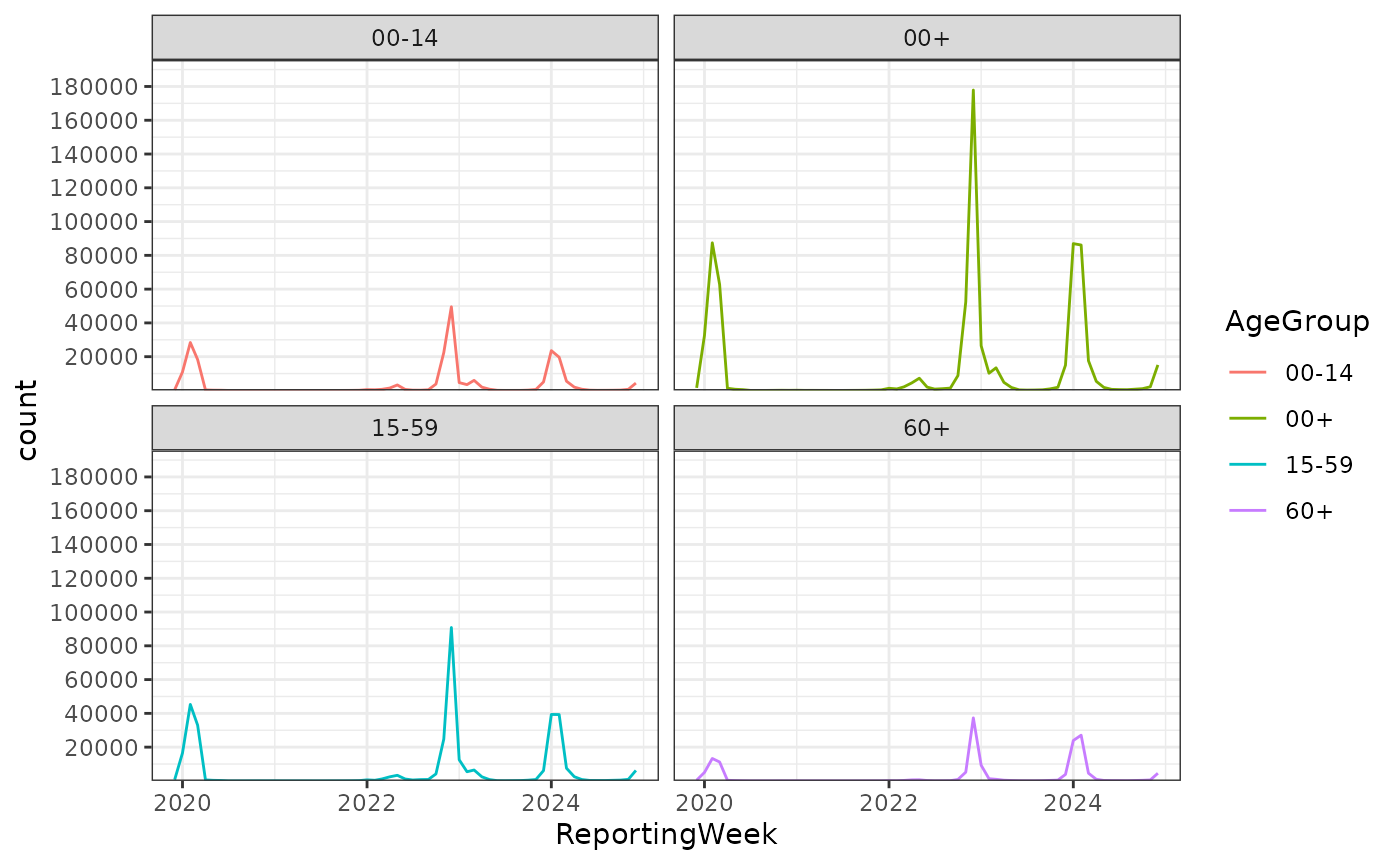
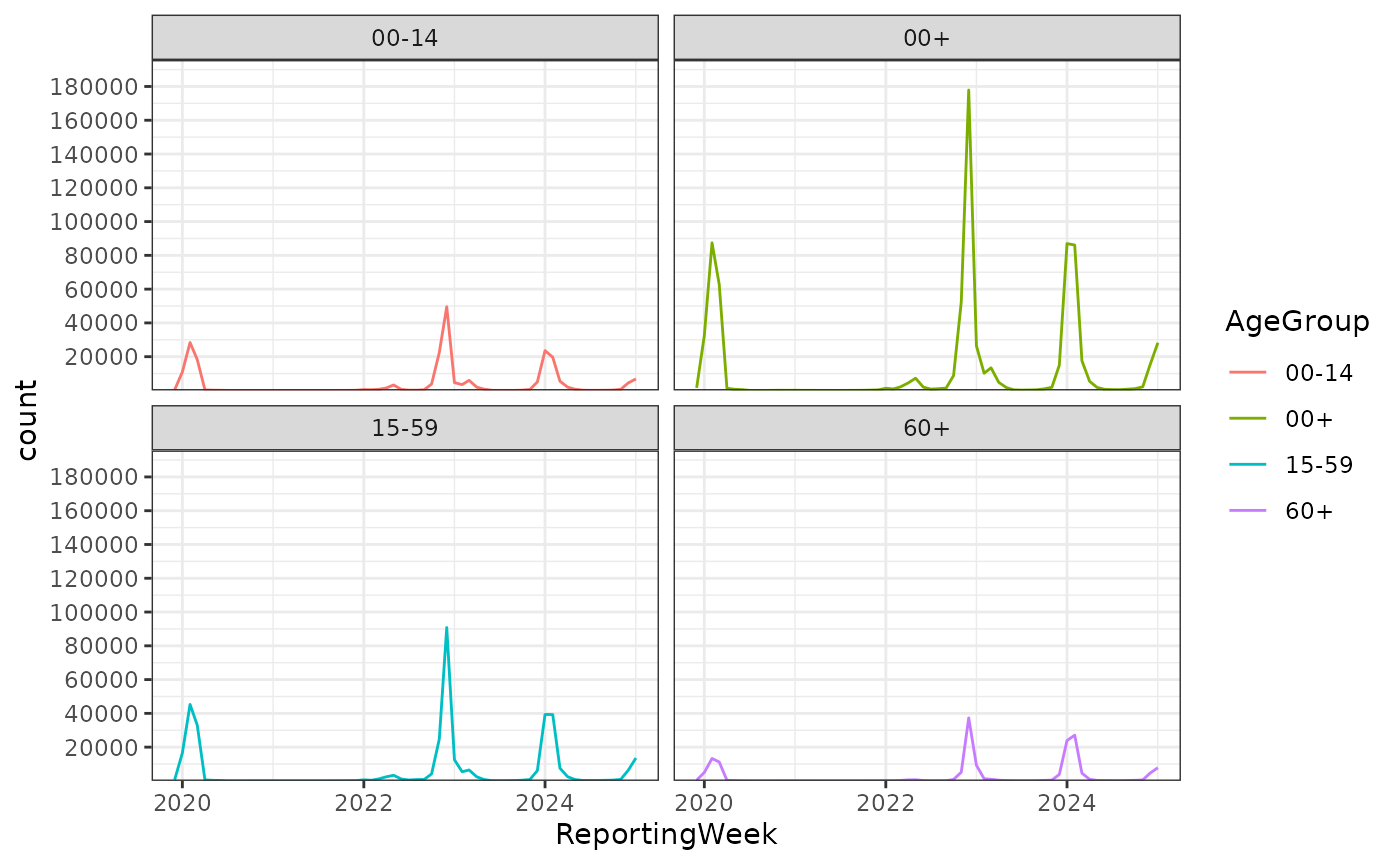
Deploying to gh-pages from @ biostats-dev/ggsurveillance@59870f68ac120569420b44e679a9e4e4ecffb558 🚀

diff --git a/articles/align_dates_seasonal.html b/articles/align_dates_seasonal.html
@@ -89,9 +89,23 @@
 <span><span class="co">#&gt;   method               from </span></span>
 <span><span class="co">#&gt;   as_tibble.grouped_df dplyr</span></span></code></pre></div>
 <div class="section level2">
+<h2 id="the-seasonal-plot">The seasonal plot<a class="anchor" aria-label="anchor" href="#the-seasonal-plot"></a>
+</h2>
+<pre><code><span><span class="co">#&gt; Warning: A numeric `legend.position` argument in `theme()` was deprecated in ggplot2</span></span>
+<span><span class="co">#&gt; 3.5.0.</span></span>
+<span><span class="co">#&gt; <span style="color: #00BBBB;">ℹ</span> Please use the `legend.position.inside` argument of `theme()` instead.</span></span>
+<span><span class="co">#&gt; <span style="color: #555555;">This warning is displayed once every 8 hours.</span></span></span>
+<span><span class="co">#&gt; <span style="color: #555555;">Call `lifecycle::last_lifecycle_warnings()` to see where this warning was</span></span></span>
+<span><span class="co">#&gt; <span style="color: #555555;">generated.</span></span></span>
+<span><span class="co">#&gt; Warning: Computation failed in `stat_summary()`.</span></span>
+<span><span class="co">#&gt; Caused by error in `fun.data()`:</span></span>
+<span><span class="co">#&gt; <span style="color: #BBBB00;">!</span> The package "Hmisc" is required.</span></span></code></pre>
+<p><img src="align_dates_seasonal_files/figure-html/unnamed-chunk-2-1.png" width="700"></p>
+</div>
+<div class="section level2">
 <h2 id="seasonal-alignment-and-plot">Seasonal alignment and plot<a class="anchor" aria-label="anchor" href="#seasonal-alignment-and-plot"></a>
 </h2>
-<div class="sourceCode" id="cb2"><pre class="downlit sourceCode r">
+<div class="sourceCode" id="cb3"><pre class="downlit sourceCode r">
 <code class="sourceCode R"><span><span class="kw"><a href="https://rdrr.io/r/base/library.html" class="external-link">library</a></span><span class="op">(</span><span class="va"><a href="https://ggplot2.tidyverse.org" class="external-link">ggplot2</a></span><span class="op">)</span></span>
 <span></span>
 <span><span class="va">influenza_germany</span> <span class="op">|&gt;</span></span>
@@ -103,8 +117,8 @@
 <span>  <span class="fu"><a href="https://ggplot2.tidyverse.org/reference/geom_path.html" class="external-link">geom_line</a></span><span class="op">(</span><span class="op">)</span> <span class="op">+</span></span>
 <span>  <span class="fu"><a href="https://ggplot2.tidyverse.org/reference/facet_wrap.html" class="external-link">facet_wrap</a></span><span class="op">(</span><span class="op">~</span><span class="va">AgeGroup</span><span class="op">)</span> <span class="op">+</span></span>
 <span>  <span class="fu"><a href="https://ggplot2.tidyverse.org/reference/ggtheme.html" class="external-link">theme_bw</a></span><span class="op">(</span><span class="op">)</span></span></code></pre></div>
-<p><img src="align_dates_seasonal_files/figure-html/unnamed-chunk-2-1.png" width="700"></p>
-<div class="sourceCode" id="cb3"><pre class="downlit sourceCode r">
+<p><img src="align_dates_seasonal_files/figure-html/unnamed-chunk-3-1.png" width="700"></p>
+<div class="sourceCode" id="cb4"><pre class="downlit sourceCode r">
 <code class="sourceCode R"><span><span class="va">influenza_germany</span> <span class="op">|&gt;</span></span>
 <span>  <span class="fu"><a href="../reference/align_dates_seasonal.html">align_dates_seasonal</a></span><span class="op">(</span>dates_from <span class="op">=</span> <span class="va">ReportingWeek</span><span class="op">)</span> <span class="op">|&gt;</span></span>
 <span>  <span class="fu"><a href="https://dplyr.tidyverse.org/reference/group_by.html" class="external-link">group_by</a></span><span class="op">(</span><span class="va">AgeGroup</span>, <span class="va">season</span><span class="op">)</span> <span class="op">|&gt;</span></span>
@@ -117,13 +131,41 @@
 <span><span class="co">#&gt; <span style="color: #BCBCBC;">2</span> 2020/21    683     132     267   283</span></span>
 <span><span class="co">#&gt; <span style="color: #BCBCBC;">3</span> 2021/22  <span style="text-decoration: underline;">18</span>980    <span style="text-decoration: underline;">7</span>176    <span style="text-decoration: underline;">9</span>580  <span style="text-decoration: underline;">2</span>206</span></span>
 <span><span class="co">#&gt; <span style="color: #BCBCBC;">4</span> 2022/23 <span style="text-decoration: underline;">299</span>167   <span style="text-decoration: underline;">93</span>343  <span style="text-decoration: underline;">149</span>590 <span style="text-decoration: underline;">55</span>944</span></span>
-<span><span class="co">#&gt; <span style="color: #BCBCBC;">5</span> 2023/24 <span style="text-decoration: underline;">217</span>233   <span style="text-decoration: underline;">57</span>542   <span style="text-decoration: underline;">97</span>618 <span style="text-decoration: underline;">61</span>878</span></span>
-<span><span class="co">#&gt; <span style="color: #BCBCBC;">6</span> 2024/25  <span style="text-decoration: underline;">19</span>931    <span style="text-decoration: underline;">5</span>540    <span style="text-decoration: underline;">8</span>421  <span style="text-decoration: underline;">5</span>957</span></span></code></pre></div>
+<span><span class="co">#&gt; <span style="color: #BCBCBC;">5</span> 2023/24 <span style="text-decoration: underline;">217</span>235   <span style="text-decoration: underline;">57</span>544   <span style="text-decoration: underline;">97</span>617 <span style="text-decoration: underline;">61</span>879</span></span>
+<span><span class="co">#&gt; <span style="color: #BCBCBC;">6</span> 2024/25  <span style="text-decoration: underline;">48</span>427   <span style="text-decoration: underline;">12</span>438   <span style="text-decoration: underline;">22</span>063 <span style="text-decoration: underline;">13</span>882</span></span></code></pre></div>
+</div>
+<div class="section level2">
+<h2 id="combining-everything-for-the-seasonal-plot">Combining everything for the seasonal plot<a class="anchor" aria-label="anchor" href="#combining-everything-for-the-seasonal-plot"></a>
+</h2>
+<div class="sourceCode" id="cb5"><pre class="downlit sourceCode r">
+<code class="sourceCode R"><span><span class="va">influenza_germany</span> <span class="op">|&gt;</span></span>
+<span>  <span class="fu"><a href="https://dplyr.tidyverse.org/reference/filter.html" class="external-link">filter</a></span><span class="op">(</span><span class="va">AgeGroup</span> <span class="op">==</span> <span class="st">"00+"</span><span class="op">)</span> <span class="op">|&gt;</span></span>
+<span>  <span class="fu"><a href="../reference/align_dates_seasonal.html">align_dates_seasonal</a></span><span class="op">(</span>dates_from <span class="op">=</span> <span class="va">ReportingWeek</span>,</span>
+<span>                       date_resolution <span class="op">=</span> <span class="st">"isoweek"</span>,</span>
+<span>                       start <span class="op">=</span> <span class="fl">28</span><span class="op">)</span> <span class="op">-&gt;</span> <span class="va">df_flu_aligned</span></span>
+<span></span>
+<span><span class="fu"><a href="https://ggplot2.tidyverse.org/reference/ggplot.html" class="external-link">ggplot</a></span><span class="op">(</span><span class="va">df_flu_aligned</span>, <span class="fu"><a href="https://ggplot2.tidyverse.org/reference/aes.html" class="external-link">aes</a></span><span class="op">(</span>x <span class="op">=</span> <span class="va">date_aligned</span>, y <span class="op">=</span> <span class="va">Incidence</span><span class="op">)</span><span class="op">)</span> <span class="op">+</span></span>
+<span>  <span class="fu"><a href="https://ggplot2.tidyverse.org/reference/stat_summary.html" class="external-link">stat_summary</a></span><span class="op">(</span></span>
+<span>    <span class="fu"><a href="https://ggplot2.tidyverse.org/reference/aes.html" class="external-link">aes</a></span><span class="op">(</span>linetype <span class="op">=</span> <span class="st">"Historical Median (Min-Max)"</span><span class="op">)</span>, data <span class="op">=</span> <span class="va">.</span> <span class="op"><a href="https://magrittr.tidyverse.org/reference/pipe.html" class="external-link">%&gt;%</a></span> <span class="fu"><a href="https://dplyr.tidyverse.org/reference/filter.html" class="external-link">filter</a></span><span class="op">(</span><span class="op">!</span><span class="va">current_season</span><span class="op">)</span>, </span>
+<span>    fun.data <span class="op">=</span> <span class="va">median_hilow</span>, geom <span class="op">=</span> <span class="st">"ribbon"</span>, alpha <span class="op">=</span> <span class="fl">0.3</span><span class="op">)</span> <span class="op">+</span></span>
+<span>  <span class="fu"><a href="https://ggplot2.tidyverse.org/reference/stat_summary.html" class="external-link">stat_summary</a></span><span class="op">(</span></span>
+<span>    <span class="fu"><a href="https://ggplot2.tidyverse.org/reference/aes.html" class="external-link">aes</a></span><span class="op">(</span>linetype <span class="op">=</span> <span class="st">"Historical Median (Min-Max)"</span><span class="op">)</span>, data <span class="op">=</span> <span class="va">.</span> <span class="op"><a href="https://magrittr.tidyverse.org/reference/pipe.html" class="external-link">%&gt;%</a></span> <span class="fu"><a href="https://dplyr.tidyverse.org/reference/filter.html" class="external-link">filter</a></span><span class="op">(</span><span class="op">!</span><span class="va">current_season</span><span class="op">)</span>, </span>
+<span>    fun <span class="op">=</span> <span class="va">median</span>, geom <span class="op">=</span> <span class="st">"line"</span><span class="op">)</span> <span class="op">+</span></span>
+<span>  <span class="fu"><a href="https://ggplot2.tidyverse.org/reference/geom_path.html" class="external-link">geom_line</a></span><span class="op">(</span></span>
+<span>    <span class="fu"><a href="https://ggplot2.tidyverse.org/reference/aes.html" class="external-link">aes</a></span><span class="op">(</span>linetype <span class="op">=</span> <span class="st">"2024/25"</span><span class="op">)</span>, data <span class="op">=</span> <span class="va">.</span> <span class="op"><a href="https://magrittr.tidyverse.org/reference/pipe.html" class="external-link">%&gt;%</a></span> <span class="fu"><a href="https://dplyr.tidyverse.org/reference/filter.html" class="external-link">filter</a></span><span class="op">(</span><span class="va">current_season</span><span class="op">)</span>, colour <span class="op">=</span> <span class="st">"dodgerblue4"</span>, linewidth <span class="op">=</span> <span class="fl">2</span><span class="op">)</span> <span class="op">+</span></span>
+<span>  <span class="fu"><a href="https://ggplot2.tidyverse.org/reference/labs.html" class="external-link">labs</a></span><span class="op">(</span>linetype <span class="op">=</span> <span class="st">""</span><span class="op">)</span> <span class="op">+</span></span>
+<span>  <span class="fu"><a href="https://ggplot2.tidyverse.org/reference/scale_date.html" class="external-link">scale_x_date</a></span><span class="op">(</span>date_labels <span class="op">=</span> <span class="st">"%b'%y"</span><span class="op">)</span> <span class="op">+</span></span>
+<span>  <span class="fu"><a href="https://ggplot2.tidyverse.org/reference/ggtheme.html" class="external-link">theme_bw</a></span><span class="op">(</span><span class="op">)</span> <span class="op">+</span></span>
+<span>  <span class="fu"><a href="https://ggplot2.tidyverse.org/reference/theme.html" class="external-link">theme</a></span><span class="op">(</span>legend.position <span class="op">=</span> <span class="fu"><a href="https://rdrr.io/r/base/c.html" class="external-link">c</a></span><span class="op">(</span><span class="fl">0.2</span>,<span class="fl">0.8</span><span class="op">)</span><span class="op">)</span></span>
+<span><span class="co">#&gt; Warning: Computation failed in `stat_summary()`.</span></span>
+<span><span class="co">#&gt; Caused by error in `fun.data()`:</span></span>
+<span><span class="co">#&gt; <span style="color: #BBBB00;">!</span> The package "Hmisc" is required.</span></span></code></pre></div>
+<p><img src="align_dates_seasonal_files/figure-html/unnamed-chunk-5-1.png" width="700"></p>
 </div>
 <div class="section level2">
 <h2 id="other-visualisations">Other visualisations<a class="anchor" aria-label="anchor" href="#other-visualisations"></a>
 </h2>
-<div class="sourceCode" id="cb4"><pre class="downlit sourceCode r">
+<div class="sourceCode" id="cb6"><pre class="downlit sourceCode r">
 <code class="sourceCode R"><span><span class="va">influenza_germany</span> <span class="op">|&gt;</span></span>
 <span>  <span class="fu"><a href="https://dplyr.tidyverse.org/reference/filter.html" class="external-link">filter</a></span><span class="op">(</span><span class="va">AgeGroup</span> <span class="op">!=</span> <span class="st">"00+"</span><span class="op">)</span> <span class="op">|&gt;</span></span>
 <span>  <span class="fu"><a href="../reference/align_dates_seasonal.html">align_dates_seasonal</a></span><span class="op">(</span>dates_from <span class="op">=</span> <span class="va">ReportingWeek</span><span class="op">)</span> <span class="op">|&gt;</span></span>
@@ -135,7 +177,7 @@
 <span>  <span class="fu"><a href="https://ggplot2.tidyverse.org/reference/ggtheme.html" class="external-link">theme_bw</a></span><span class="op">(</span><span class="op">)</span></span>
 <span><span class="co">#&gt; Warning in geom_epicurve(color = NA, stat = "count"): Ignoring unknown</span></span>
 <span><span class="co">#&gt; parameters: `week_start`</span></span></code></pre></div>
-<p><img src="align_dates_seasonal_files/figure-html/unnamed-chunk-4-1.png" width="700"></p>
+<p><img src="align_dates_seasonal_files/figure-html/unnamed-chunk-6-1.png" width="700"></p>
 </div>
   </main><aside class="col-md-3"><nav id="toc" aria-label="Table of contents"><h2>On this page</h2>
     </nav></aside>

diff --git a/index.html b/index.html
@@ -113,20 +113,24 @@
 <span><span class="kw"><a href="https://rdrr.io/r/base/library.html" class="external-link">library</a></span><span class="op">(</span><span class="va"><a href="https://ggsurveillance.biostats.dev">ggsurveillance</a></span><span class="op">)</span></span>
 <span></span>
 <span><span class="va">influenza_germany</span> <span class="op">|&gt;</span></span>
+<span>  <span class="fu"><a href="https://rdrr.io/r/stats/filter.html" class="external-link">filter</a></span><span class="op">(</span><span class="va">AgeGroup</span> <span class="op">==</span> <span class="st">"00+"</span><span class="op">)</span> <span class="op">|&gt;</span></span>
 <span>  <span class="fu"><a href="reference/align_dates_seasonal.html">align_dates_seasonal</a></span><span class="op">(</span>dates_from <span class="op">=</span> <span class="va">ReportingWeek</span>,</span>
 <span>                       date_resolution <span class="op">=</span> <span class="st">"isoweek"</span>,</span>
 <span>                       start <span class="op">=</span> <span class="fl">28</span><span class="op">)</span> <span class="op">-&gt;</span> <span class="va">df_flu_aligned</span></span>
 <span></span>
 <span><span class="fu"><a href="https://ggplot2.tidyverse.org/reference/ggplot.html" class="external-link">ggplot</a></span><span class="op">(</span><span class="va">df_flu_aligned</span>, <span class="fu"><a href="https://ggplot2.tidyverse.org/reference/aes.html" class="external-link">aes</a></span><span class="op">(</span>x <span class="op">=</span> <span class="va">date_aligned</span>, y <span class="op">=</span> <span class="va">Incidence</span><span class="op">)</span><span class="op">)</span> <span class="op">+</span></span>
-<span>  <span class="fu"><a href="https://ggplot2.tidyverse.org/reference/stat_summary.html" class="external-link">stat_summary</a></span><span class="op">(</span>data <span class="op">=</span> <span class="va">.</span> <span class="op"><a href="https://magrittr.tidyverse.org/reference/pipe.html" class="external-link">%&gt;%</a></span> <span class="fu"><a href="https://rdrr.io/r/stats/filter.html" class="external-link">filter</a></span><span class="op">(</span><span class="op">!</span><span class="va">current_season</span><span class="op">)</span>, fun.data <span class="op">=</span> <span class="va">median_hilow</span>,</span>
-<span>               geom <span class="op">=</span> <span class="st">"ribbon"</span>, alpha <span class="op">=</span> <span class="fl">0.3</span><span class="op">)</span> <span class="op">+</span></span>
-<span>  <span class="fu"><a href="https://ggplot2.tidyverse.org/reference/stat_summary.html" class="external-link">stat_summary</a></span><span class="op">(</span>data <span class="op">=</span> <span class="va">.</span> <span class="op"><a href="https://magrittr.tidyverse.org/reference/pipe.html" class="external-link">%&gt;%</a></span> <span class="fu"><a href="https://rdrr.io/r/stats/filter.html" class="external-link">filter</a></span><span class="op">(</span><span class="op">!</span><span class="va">current_season</span><span class="op">)</span>, fun <span class="op">=</span> <span class="va">median</span>,</span>
-<span>               geom <span class="op">=</span> <span class="st">"line"</span><span class="op">)</span> <span class="op">+</span></span>
-<span>  <span class="fu"><a href="https://ggplot2.tidyverse.org/reference/geom_path.html" class="external-link">geom_line</a></span><span class="op">(</span>data <span class="op">=</span> <span class="va">.</span> <span class="op"><a href="https://magrittr.tidyverse.org/reference/pipe.html" class="external-link">%&gt;%</a></span> <span class="fu"><a href="https://rdrr.io/r/stats/filter.html" class="external-link">filter</a></span><span class="op">(</span><span class="va">current_season</span><span class="op">)</span>, color <span class="op">=</span> <span class="st">"dodgerblue4"</span>, </span>
-<span>            linewidth <span class="op">=</span> <span class="fl">2</span><span class="op">)</span> <span class="op">+</span></span>
+<span>  <span class="fu"><a href="https://ggplot2.tidyverse.org/reference/stat_summary.html" class="external-link">stat_summary</a></span><span class="op">(</span></span>
+<span>    <span class="fu"><a href="https://ggplot2.tidyverse.org/reference/aes.html" class="external-link">aes</a></span><span class="op">(</span>linetype <span class="op">=</span> <span class="st">"Historical Median (Min-Max)"</span><span class="op">)</span>, data <span class="op">=</span> <span class="va">.</span> <span class="op"><a href="https://magrittr.tidyverse.org/reference/pipe.html" class="external-link">%&gt;%</a></span> <span class="fu"><a href="https://rdrr.io/r/stats/filter.html" class="external-link">filter</a></span><span class="op">(</span><span class="op">!</span><span class="va">current_season</span><span class="op">)</span>, </span>
+<span>    fun.data <span class="op">=</span> <span class="va">median_hilow</span>, geom <span class="op">=</span> <span class="st">"ribbon"</span>, alpha <span class="op">=</span> <span class="fl">0.3</span><span class="op">)</span> <span class="op">+</span></span>
+<span>  <span class="fu"><a href="https://ggplot2.tidyverse.org/reference/stat_summary.html" class="external-link">stat_summary</a></span><span class="op">(</span></span>
+<span>    <span class="fu"><a href="https://ggplot2.tidyverse.org/reference/aes.html" class="external-link">aes</a></span><span class="op">(</span>linetype <span class="op">=</span> <span class="st">"Historical Median (Min-Max)"</span><span class="op">)</span>, data <span class="op">=</span> <span class="va">.</span> <span class="op"><a href="https://magrittr.tidyverse.org/reference/pipe.html" class="external-link">%&gt;%</a></span> <span class="fu"><a href="https://rdrr.io/r/stats/filter.html" class="external-link">filter</a></span><span class="op">(</span><span class="op">!</span><span class="va">current_season</span><span class="op">)</span>, </span>
+<span>    fun <span class="op">=</span> <span class="va">median</span>, geom <span class="op">=</span> <span class="st">"line"</span><span class="op">)</span> <span class="op">+</span></span>
+<span>  <span class="fu"><a href="https://ggplot2.tidyverse.org/reference/geom_path.html" class="external-link">geom_line</a></span><span class="op">(</span></span>
+<span>    <span class="fu"><a href="https://ggplot2.tidyverse.org/reference/aes.html" class="external-link">aes</a></span><span class="op">(</span>linetype <span class="op">=</span> <span class="st">"2024/25"</span><span class="op">)</span>, data <span class="op">=</span> <span class="va">.</span> <span class="op"><a href="https://magrittr.tidyverse.org/reference/pipe.html" class="external-link">%&gt;%</a></span> <span class="fu"><a href="https://rdrr.io/r/stats/filter.html" class="external-link">filter</a></span><span class="op">(</span><span class="va">current_season</span><span class="op">)</span>, colour <span class="op">=</span> <span class="st">"dodgerblue4"</span>, linewidth <span class="op">=</span> <span class="fl">2</span><span class="op">)</span> <span class="op">+</span></span>
+<span>  <span class="fu"><a href="https://ggplot2.tidyverse.org/reference/labs.html" class="external-link">labs</a></span><span class="op">(</span>linetype <span class="op">=</span> <span class="st">""</span><span class="op">)</span> <span class="op">+</span></span>
 <span>  <span class="fu"><a href="https://ggplot2.tidyverse.org/reference/scale_date.html" class="external-link">scale_x_date</a></span><span class="op">(</span>date_labels <span class="op">=</span> <span class="st">"%b'%y"</span><span class="op">)</span> <span class="op">+</span></span>
-<span>  <span class="fu"><a href="https://ggplot2.tidyverse.org/reference/facet_wrap.html" class="external-link">facet_wrap</a></span><span class="op">(</span><span class="op">~</span><span class="va">AgeGroup</span>, labeller <span class="op">=</span> <span class="va">label_both</span><span class="op">)</span> <span class="op">+</span></span>
-<span>  <span class="fu"><a href="https://ggplot2.tidyverse.org/reference/ggtheme.html" class="external-link">theme_bw</a></span><span class="op">(</span><span class="op">)</span></span></code></pre></div>
+<span>  <span class="fu"><a href="https://ggplot2.tidyverse.org/reference/ggtheme.html" class="external-link">theme_bw</a></span><span class="op">(</span><span class="op">)</span> <span class="op">+</span></span>
+<span>  <span class="fu"><a href="https://ggplot2.tidyverse.org/reference/theme.html" class="external-link">theme</a></span><span class="op">(</span>legend.position <span class="op">=</span> <span class="fu"><a href="https://rdrr.io/r/base/c.html" class="external-link">c</a></span><span class="op">(</span><span class="fl">0.2</span>,<span class="fl">0.8</span><span class="op">)</span><span class="op">)</span></span></code></pre></div>
 <div class="float">
 <img src="reference/figures/seasonal_plot_readme.png" alt="Seasonal influenza data from Germany by Age Group"><div class="figcaption">Seasonal influenza data from Germany by Age Group</div>
 </div>

diff --git a/reference/influenza_germany.html b/reference/influenza_germany.html
@@ -1,5 +1,5 @@
 <!DOCTYPE html>
-<!-- Generated by pkgdown: do not edit by hand --><html lang="en"><head><meta http-equiv="Content-Type" content="text/html; charset=UTF-8"><meta charset="utf-8"><meta http-equiv="X-UA-Compatible" content="IE=edge"><meta name="viewport" content="width=device-width, initial-scale=1, shrink-to-fit=no"><title>Germany Influenza (FLU) Surveillance data — influenza_germany • ggsurveillance</title><!-- favicons --><link rel="icon" type="image/png" sizes="16x16" href="../favicon-16x16.png"><link rel="icon" type="image/png" sizes="32x32" href="../favicon-32x32.png"><link rel="apple-touch-icon" type="image/png" sizes="180x180" href="../apple-touch-icon.png"><link rel="apple-touch-icon" type="image/png" sizes="120x120" href="../apple-touch-icon-120x120.png"><link rel="apple-touch-icon" type="image/png" sizes="76x76" href="../apple-touch-icon-76x76.png"><link rel="apple-touch-icon" type="image/png" sizes="60x60" href="../apple-touch-icon-60x60.png"><script src="../deps/jquery-3.6.0/jquery-3.6.0.min.js"></script><meta name="viewport" content="width=device-width, initial-scale=1, shrink-to-fit=no"><link href="../deps/bootstrap-5.3.1/bootstrap.min.css" rel="stylesheet"><script src="../deps/bootstrap-5.3.1/bootstrap.bundle.min.js"></script><link href="../deps/font-awesome-6.5.2/css/all.min.css" rel="stylesheet"><link href="../deps/font-awesome-6.5.2/css/v4-shims.min.css" rel="stylesheet"><script src="../deps/headroom-0.11.0/headroom.min.js"></script><script src="../deps/headroom-0.11.0/jQuery.headroom.min.js"></script><script src="../deps/bootstrap-toc-1.0.1/bootstrap-toc.min.js"></script><script src="../deps/clipboard.js-2.0.11/clipboard.min.js"></script><script src="../deps/search-1.0.0/autocomplete.jquery.min.js"></script><script src="../deps/search-1.0.0/fuse.min.js"></script><script src="../deps/search-1.0.0/mark.min.js"></script><script src="../deps/MathJax-3.2.2/tex-chtml.min.js"></script><!-- pkgdown --><script src="../pkgdown.js"></script><meta property="og:title" content="Germany Influenza (FLU) Surveillance data — influenza_germany"><meta name="description" content="A subset of the weekly German influenza surveillance data from 2020 to 2024."><meta property="og:description" content="A subset of the weekly German influenza surveillance data from 2020 to 2024."><meta property="og:image" content="https://ggsurveillance.biostats.dev/logo.svg"></head><body>
+<!-- Generated by pkgdown: do not edit by hand --><html lang="en"><head><meta http-equiv="Content-Type" content="text/html; charset=UTF-8"><meta charset="utf-8"><meta http-equiv="X-UA-Compatible" content="IE=edge"><meta name="viewport" content="width=device-width, initial-scale=1, shrink-to-fit=no"><title>Germany Influenza (FLU) Surveillance data — influenza_germany • ggsurveillance</title><!-- favicons --><link rel="icon" type="image/png" sizes="16x16" href="../favicon-16x16.png"><link rel="icon" type="image/png" sizes="32x32" href="../favicon-32x32.png"><link rel="apple-touch-icon" type="image/png" sizes="180x180" href="../apple-touch-icon.png"><link rel="apple-touch-icon" type="image/png" sizes="120x120" href="../apple-touch-icon-120x120.png"><link rel="apple-touch-icon" type="image/png" sizes="76x76" href="../apple-touch-icon-76x76.png"><link rel="apple-touch-icon" type="image/png" sizes="60x60" href="../apple-touch-icon-60x60.png"><script src="../deps/jquery-3.6.0/jquery-3.6.0.min.js"></script><meta name="viewport" content="width=device-width, initial-scale=1, shrink-to-fit=no"><link href="../deps/bootstrap-5.3.1/bootstrap.min.css" rel="stylesheet"><script src="../deps/bootstrap-5.3.1/bootstrap.bundle.min.js"></script><link href="../deps/font-awesome-6.5.2/css/all.min.css" rel="stylesheet"><link href="../deps/font-awesome-6.5.2/css/v4-shims.min.css" rel="stylesheet"><script src="../deps/headroom-0.11.0/headroom.min.js"></script><script src="../deps/headroom-0.11.0/jQuery.headroom.min.js"></script><script src="../deps/bootstrap-toc-1.0.1/bootstrap-toc.min.js"></script><script src="../deps/clipboard.js-2.0.11/clipboard.min.js"></script><script src="../deps/search-1.0.0/autocomplete.jquery.min.js"></script><script src="../deps/search-1.0.0/fuse.min.js"></script><script src="../deps/search-1.0.0/mark.min.js"></script><script src="../deps/MathJax-3.2.2/tex-chtml.min.js"></script><!-- pkgdown --><script src="../pkgdown.js"></script><meta property="og:title" content="Germany Influenza (FLU) Surveillance data — influenza_germany"><meta name="description" content="A subset of the weekly German influenza surveillance data from January 2020 to January 2025."><meta property="og:description" content="A subset of the weekly German influenza surveillance data from January 2020 to January 2025."><meta property="og:image" content="https://ggsurveillance.biostats.dev/logo.svg"></head><body>
     <a href="#main" class="visually-hidden-focusable">Skip to contents</a>
 
 
@@ -39,7 +39,7 @@
     </div>
 
     <div class="ref-description section level2">
-    <p>A subset of the weekly German influenza surveillance data from 2020 to 2024.</p>
+    <p>A subset of the weekly German influenza surveillance data from January 2020 to January 2025.</p>
     </div>
 
     <div class="section level2">
@@ -49,7 +49,7 @@
 
     <div class="section level2">
     <h2 id="format">Format<a class="anchor" aria-label="anchor" href="#format"></a></h2>
-    <p>An object of class <code>tbl_df</code> (inherits from <code>tbl</code>, <code>data.frame</code>) with 1029 rows and 4 columns.</p>
+    <p>An object of class <code>tbl_df</code> (inherits from <code>tbl</code>, <code>data.frame</code>) with 1037 rows and 4 columns.</p>
     </div>
     <div class="section level2">
     <h2 id="source">Source<a class="anchor" aria-label="anchor" href="#source"></a></h2>
@@ -58,7 +58,7 @@ DOI:10.5281/zenodo.14619502. <a href="https://github.com/robert-koch-institut/In
     </div>
     <div class="section level2">
     <h2 id="details">Details<a class="anchor" aria-label="anchor" href="#details"></a></h2>
-    <p>A data frame with 1,029 rows and 4 columns:</p><dl><dt>ReportingWeek</dt>
+    <p>A data frame with 1,037 rows and 4 columns:</p><dl><dt>ReportingWeek</dt>
 <dd><p>Reporting Week in "2024-W03" format</p></dd>
 
 <dt>AgeGroup</dt>

diff --git a/reference/geom_epicurve.html b/reference/geom_epicurve.html
@@ -3,14 +3,14 @@
 An epicurve is a bar plot, where every case is outlined. geom_epicurve additionally provides
 date-based aggregation of cases (e.g. per week or month and many more).
 For week aggregation both isoweek (World + ECDC) and epiweek (US CDC) are supported.
-stat_bin_dates and its alias stat_count_dates provide date based binning only. After binning the by date, these
+stat_bin_date and its alias stat_date_count provide date based binning only. After binning the by date, these
 stats behave like ggplot2::stat_count.
 
 "><meta property="og:description" content="Creates a epicurve plot for visualizing epidemic case counts in outbreaks (epidemiological curves).
 An epicurve is a bar plot, where every case is outlined. geom_epicurve additionally provides
 date-based aggregation of cases (e.g. per week or month and many more).
 For week aggregation both isoweek (World + ECDC) and epiweek (US CDC) are supported.
-stat_bin_dates and its alias stat_count_dates provide date based binning only. After binning the by date, these
+stat_bin_date and its alias stat_date_count provide date based binning only. After binning the by date, these
 stats behave like ggplot2::stat_count.
 
 "><meta property="og:image" content="https://ggsurveillance.biostats.dev/logo.svg"></head><body>
@@ -56,7 +56,7 @@ stats behave like ggplot2::stat_count.
     <p>Creates a epicurve plot for visualizing epidemic case counts in outbreaks (epidemiological curves).
 An epicurve is a bar plot, where every case is outlined. <code>geom_epicurve</code> additionally provides
 date-based aggregation of cases (e.g. per week or month and many more).</p><ul><li><p>For week aggregation both isoweek (World + ECDC) and epiweek (US CDC) are supported.</p></li>
-<li><p><code>stat_bin_dates</code> and its alias <code>stat_count_dates</code> provide date based binning only. After binning the by date, these
+<li><p><code>stat_bin_date</code> and its alias <code>stat_date_count</code> provide date based binning only. After binning the by date, these
 stats behave like <a href="https://ggplot2.tidyverse.org/reference/geom_bar.html" class="external-link">ggplot2::stat_count</a>.</p></li>
 </ul></div>
 
@@ -77,7 +77,7 @@ stats behave like <a href="https://ggplot2.tidyverse.org/reference/geom_bar.html
 <span>  inherit.aes <span class="op">=</span> <span class="cn">TRUE</span></span>
 <span><span class="op">)</span></span>
 <span></span>
-<span><span class="fu">stat_bin_dates</span><span class="op">(</span></span>
+<span><span class="fu">stat_bin_date</span><span class="op">(</span></span>
 <span>  mapping <span class="op">=</span> <span class="cn">NULL</span>,</span>
 <span>  data <span class="op">=</span> <span class="cn">NULL</span>,</span>
 <span>  geom <span class="op">=</span> <span class="st">"line"</span>,</span>
@@ -90,7 +90,7 @@ stats behave like <a href="https://ggplot2.tidyverse.org/reference/geom_bar.html
 <span>  inherit.aes <span class="op">=</span> <span class="cn">TRUE</span></span>
 <span><span class="op">)</span></span>
 <span></span>
-<span><span class="fu">stat_count_dates</span><span class="op">(</span></span>
+<span><span class="fu">stat_date_count</span><span class="op">(</span></span>
 <span>  mapping <span class="op">=</span> <span class="cn">NULL</span>,</span>
 <span>  data <span class="op">=</span> <span class="cn">NULL</span>,</span>
 <span>  geom <span class="op">=</span> <span class="st">"line"</span>,</span>
@@ -132,7 +132,7 @@ For large numbers of cases please use "<code>date_bin</code>" to reduce number o
 <dd><p>Character string specifying the time unit for date aggregation.
 Set to <code>NULL</code> or <code>NA</code> for no date aggregation <br>
 Possible values are: <code>"day"</code>, <code>"week"</code>, <code>"month"</code>, <code>"bimonth"</code>, <code>"season"</code>, <code>"quarter"</code>, <code>"halfyear"</code>, <code>"year"</code>.
-To special values enforce ISO or US week standard:</p><ul><li><p><code>isoweek</code> will force <code>date_resolution = week</code> and <code>week_start = 1</code> (ISO and ECDC Standard)</p></li>
+To special values enforce ISO or US week standard:</p><ul><li><p><code>isoweek</code> will force <code>dadte_resolution = week</code> and <code>week_start = 1</code> (ISO and ECDC Standard)</p></li>
 <li><p><code>epiweek</code> will force <code>date_resolution = week</code> and <code>week_start = 7</code> (US CDC Standard)</p></li>
 </ul></dd>
 

diff --git a/articles/Epicurves_with_ggsurveillance.html b/articles/Epicurves_with_ggsurveillance.html
@@ -123,7 +123,7 @@
 <span>  <span class="fu"><a href="https://ggplot2.tidyverse.org/reference/geom_path.html" class="external-link">geom_line</a></span><span class="op">(</span>stat <span class="op">=</span> <span class="st">"bin_date"</span>, date_resolution <span class="op">=</span> <span class="st">"month"</span><span class="op">)</span> <span class="op">+</span></span>
 <span>  <span class="fu"><a href="../reference/scale_y_cases_5er.html">scale_y_cases_5er</a></span><span class="op">(</span><span class="op">)</span> <span class="op">+</span></span>
 <span>  <span class="fu"><a href="https://ggplot2.tidyverse.org/reference/facet_wrap.html" class="external-link">facet_wrap</a></span><span class="op">(</span><span class="op">~</span><span class="va">AgeGroup</span><span class="op">)</span> <span class="op">+</span></span>
-<span>  <span class="fu"><a href="https://ggplot2.tidyverse.org/reference/ggtheme.html" class="external-link">theme_bw</a></span><span class="op">(</span><span class="op">)</span> </span></code></pre></div>
+<span>  <span class="fu"><a href="https://ggplot2.tidyverse.org/reference/ggtheme.html" class="external-link">theme_bw</a></span><span class="op">(</span><span class="op">)</span></span></code></pre></div>
 <p><img src="Epicurves_with_ggsurveillance_files/figure-html/unnamed-chunk-5-1.png" width="700"></p>
   </main>
 </div>

diff --git a/reference/index.html b/reference/index.html
@@ -61,7 +61,7 @@
         <dd>Create Age Groups from Numeric Values</dd>
       </dl><dl><dt>
 
-          <code><a href="geom_epicurve.html">geom_epicurve()</a></code> <code><a href="geom_epicurve.html">stat_bin_dates()</a></code> <code><a href="geom_epicurve.html">stat_count_dates()</a></code>
+          <code><a href="geom_epicurve.html">geom_epicurve()</a></code> <code><a href="geom_epicurve.html">stat_bin_date()</a></code> <code><a href="geom_epicurve.html">stat_date_count()</a></code>
 
         </dt>
         <dd>Create an epidemic curve plot or used date binning of observations</dd>

diff --git a/reference/StatDateCount.html b/reference/StatDateCount.html
@@ -1,0 +1,8 @@
+<html>
+  <head>
+    <meta http-equiv="refresh" content="0;URL=https://ggsurveillance.biostats.dev/reference/geom_epicurve.html" />
+    <meta name="robots" content="noindex">
+    <link rel="canonical" href="https://ggsurveillance.biostats.dev/reference/geom_epicurve.html">
+  </head>
+</html>
+

diff --git a/reference/stat_bin_date.html b/reference/stat_bin_date.html
@@ -1,0 +1,8 @@
+<html>
+  <head>
+    <meta http-equiv="refresh" content="0;URL=https://ggsurveillance.biostats.dev/reference/geom_epicurve.html" />
+    <meta name="robots" content="noindex">
+    <link rel="canonical" href="https://ggsurveillance.biostats.dev/reference/geom_epicurve.html">
+  </head>
+</html>
+

diff --git a/reference/stat_date_count.html b/reference/stat_date_count.html
@@ -1,0 +1,8 @@
+<html>
+  <head>
+    <meta http-equiv="refresh" content="0;URL=https://ggsurveillance.biostats.dev/reference/geom_epicurve.html" />
+    <meta name="robots" content="noindex">
+    <link rel="canonical" href="https://ggsurveillance.biostats.dev/reference/geom_epicurve.html">
+  </head>
+</html>
+
